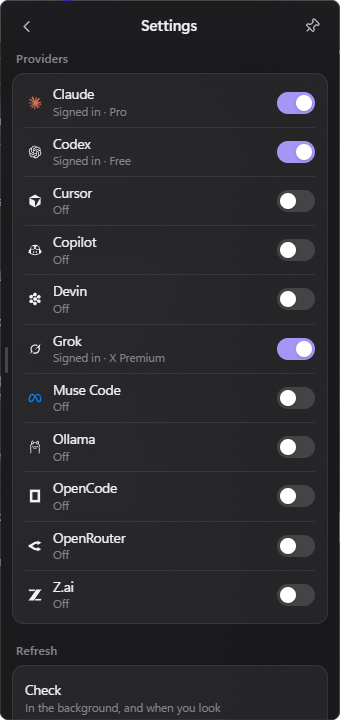
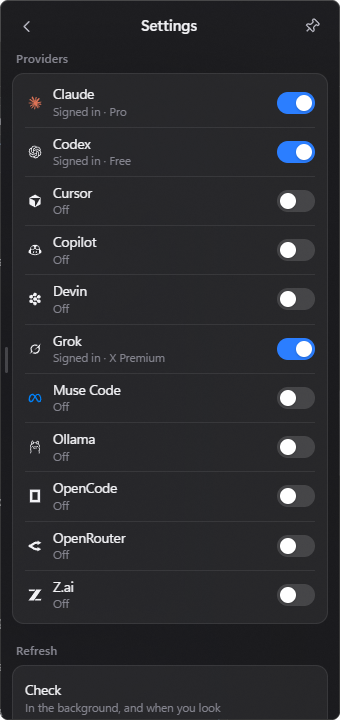
Quota's blue for switches and highlights, not purple (0.3.7)
The accent was Holster's lavender. It's now the logo tile's #2B7EFF in both
themes: switches, focus rings, the empty-state icon and the shortcut
recorder. The README's settings shots show the blue switches.

Claude-Session: https://claude.ai/code/session_01WVef3nQ8d2kJVnzWqKjgFz

Changed region(s): [[0.7941, 0.1222, 0.9412, 0.2444], [0.7941, 0.4583, 0.9412, 0.5194]]

diff --git a/src/styles.css b/src/styles.css
@@ -18,9 +18,10 @@
   --text: #1a1a1f;
   --text-2: #55555f;
   --text-3: #8b8b95;
-  --accent: #6b5bd2;
-  --accent-soft: rgba(107, 91, 210, 0.12);
-  --focus: rgba(107, 91, 210, 0.32);
+  /* Quota's blue: the logo tile's (#2B7EFF), in both themes. */
+  --accent: #2b7eff;
+  --accent-soft: rgba(43, 126, 255, 0.12);
+  --focus: rgba(43, 126, 255, 0.32);
   --danger: #d4495b;
   --warn: #b7791f;
   --meter-ok: #2b7eff;
@@ -47,9 +48,9 @@
   --text: #f2f2f5;
   --text-2: #b4b4be;
   --text-3: #85858f;
-  --accent: #a596f5;
-  --accent-soft: rgba(165, 150, 245, 0.16);
-  --focus: rgba(165, 150, 245, 0.38);
+  --accent: #2b7eff;
+  --accent-soft: rgba(43, 126, 255, 0.16);
+  --focus: rgba(43, 126, 255, 0.4);
   --danger: #f0798a;
   --warn: #e9b65c;
   --meter-ok: #4c95ff;
